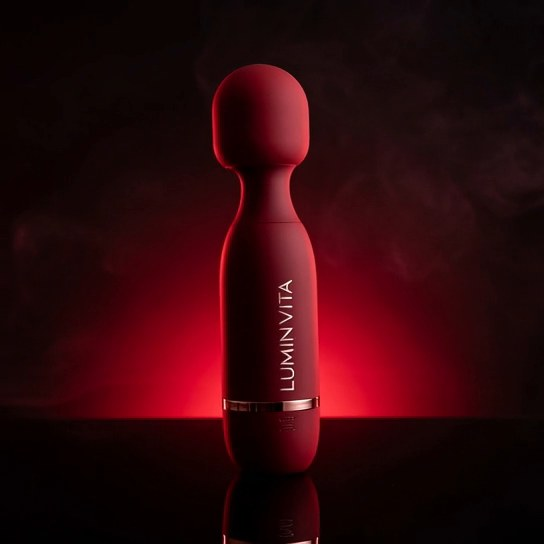
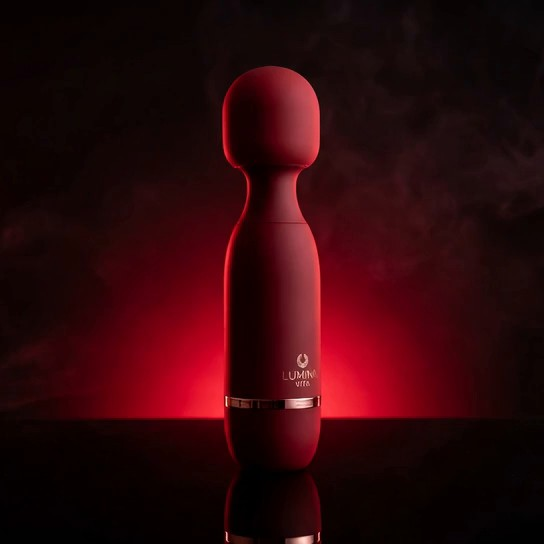
Show 360° flag on category cards; swap product photos for clean frames
The Sex Toys category card (which samples the LUMINA VITA imagery) now
carries the same 360° flag as product cards, and the gallery photos
are replaced with the cleanest turntable frames — front hero shot with
the logo plus two subtle angles — dropping the heavy artificial fog
frames.

Claude-Session: https://claude.ai/code/session_01W1YV5RgjgVS1FyGtdokRQu

diff --git a/assets/css/style.css b/assets/css/style.css
@@ -219,12 +219,13 @@ h1, h2, h3, h4 { font-weight: 700; line-height: 1.2; }
   font-family: inherit;
 }
 .thumbs .thumb-3d.active, .thumbs img.thumb.active { border-color: var(--red); }
-.card-img .flag-3d {
+.flag-3d {
   position: absolute; top: 12px; right: 12px; z-index: 2;
   background: rgba(18,7,10,.78); color: #eabf92;
   font-weight: 700; font-size: .75rem; letter-spacing: .1em;
   padding: 4px 9px;
 }
+.cat-card { position: relative; }
 .promo-line { color: var(--gold); font-weight: 700; margin-bottom: 14px; }
 .pdp-desc { color: #ddd; }
 .pdp-desc .more { color: var(--red); font-weight: 700; cursor: pointer; }

diff --git a/index.html b/index.html
@@ -65,6 +65,7 @@ document.addEventListener("DOMContentLoaded", () => {
   $("#cat-grid").innerHTML = cats.map((c) => {
     const sample = PRODUCTS.find((p) => p.category === c.slug && p.featured) || PRODUCTS.find((p) => p.category === c.slug);
     return `<a class="cat-card" href="category.html?c=${c.slug}">
+      ${sample.viewer3d ? '<span class="flag-3d">360°</span>' : ""}
       <img src="${imgFor(sample, 1)}" alt="${c.name}">
       <div class="cc-body">
         <h3>${c.name}</h3>
